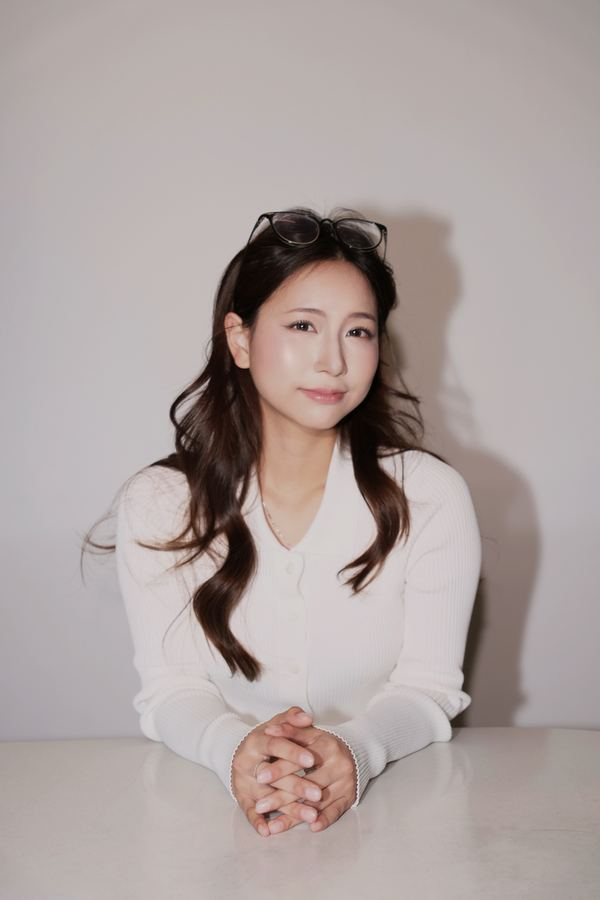
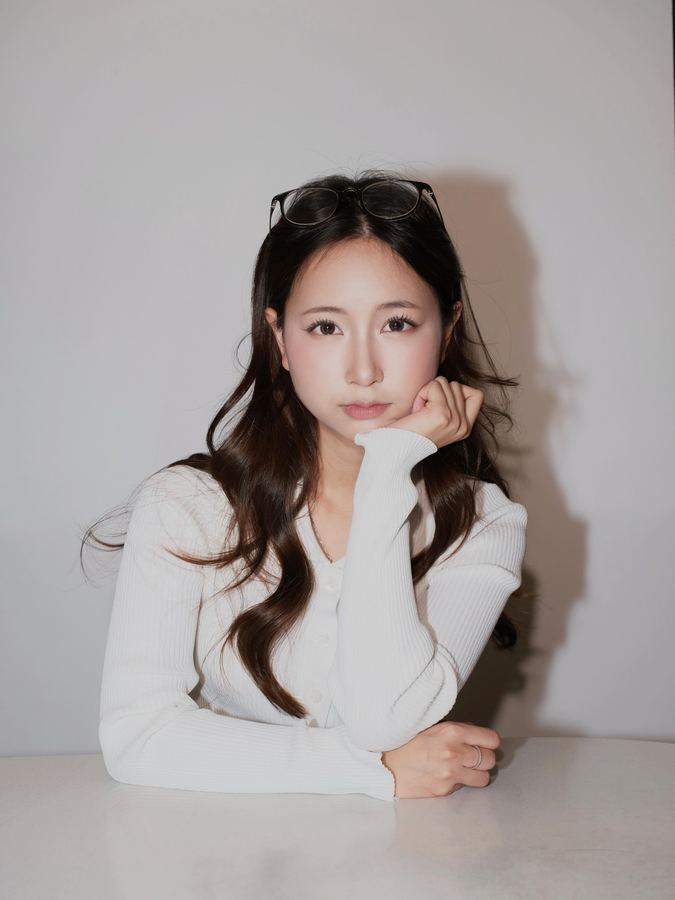
Merge Waterfront into Harbourside with the full photo, restore harbour photos, rename Car park to After dark, add four studio photos
Claude-Session: https://claude.ai/code/session_0111ci7PvkXQtPonowrr2voU

diff --git a/index.html b/index.html
@@ -517,7 +517,7 @@ h2, h3 { text-wrap: balance; font-weight: 300; }
       </div>
       <div class="section-head">
         <h2 class="section-title" id="work-title">Work</h2>
-        <p class="section-sub">Eight shoots, 33 photographs</p>
+        <p class="section-sub">Seven shoots, 40 photographs</p>
       </div>
       <ul class="index">
         <li>
@@ -547,7 +547,7 @@ h2, h3 { text-wrap: balance; font-weight: 300; }
         <li>
           <a class="idx" href="#carpark" style="--d:180ms">
             <img class="idx-thumb" src="images/carpark-1-s.jpg" width="1500" height="2000" alt="" loading="lazy" decoding="async">
-            <span class="idx-title">Car park</span>
+            <span class="idx-title">After dark</span>
             <span class="idx-where">Sydney</span>
             <span class="idx-count">4 photos</span>
           </a>
@@ -555,21 +555,13 @@ h2, h3 { text-wrap: balance; font-weight: 300; }
         <li>
           <a class="idx" href="#harbour" style="--d:240ms">
             <img class="idx-thumb" src="images/harbour-1-s.jpg" width="1500" height="2000" alt="" loading="lazy" decoding="async">
-            <span class="idx-title">White by the harbour</span>
+            <span class="idx-title">Harbourside</span>
             <span class="idx-where">Sydney Harbour</span>
-            <span class="idx-count">4 photos</span>
+            <span class="idx-count">11 photos</span>
           </a>
         </li>
         <li>
-          <a class="idx" href="#waterfront" style="--d:300ms">
-            <img class="idx-thumb" src="images/waterfront-1-s.jpg" width="1500" height="2000" alt="" loading="lazy" decoding="async">
-            <span class="idx-title">Waterfront</span>
-            <span class="idx-where">Sydney</span>
-            <span class="idx-count">4 photos</span>
-          </a>
-        </li>
-        <li>
-          <a class="idx" href="#autumn" style="--d:360ms">
+          <a class="idx" href="#autumn" style="--d:300ms">
             <img class="idx-thumb" src="images/autumn-1-s.jpg" width="1440" height="862" alt="" loading="lazy" decoding="async">
             <span class="idx-title">Autumn afternoon</span>
             <span class="idx-where">Sydney</span>
@@ -577,11 +569,11 @@ h2, h3 { text-wrap: balance; font-weight: 300; }
           </a>
         </li>
         <li>
-          <a class="idx" href="#studio" style="--d:420ms">
-            <img class="idx-thumb" src="images/studio-1-s.jpg" width="1333" height="2000" alt="" loading="lazy" decoding="async">
+          <a class="idx" href="#studio" style="--d:360ms">
+            <img class="idx-thumb" src="images/studio-1-s.jpg" width="1500" height="2000" alt="" loading="lazy" decoding="async">
             <span class="idx-title">Studio</span>
             <span class="idx-where">Indoors</span>
-            <span class="idx-count">1 photo</span>
+            <span class="idx-count">5 photos</span>
           </a>
         </li>
       </ul>
@@ -710,32 +702,32 @@ h2, h3 { text-wrap: balance; font-weight: 300; }
       </div>
 
       <span class="anchor" id="carpark"></span>
-      <section class="panel slide" data-tone="dark" data-title="Car park" aria-labelledby="carpark-title">
+      <section class="panel slide" data-tone="dark" data-title="After dark" aria-labelledby="carpark-title">
         <div class="wrap chapter">
           <div class="chapter-head">
-            <h3 class="chapter-title" id="carpark-title">Car park</h3>
+            <h3 class="chapter-title" id="carpark-title">After dark</h3>
             <p class="chapter-where">Sydney</p>
-            <p class="chapter-note">One shopping trolley, one level of underground parking and on-camera flash.</p>
+            <p class="chapter-note">A night shoot: one shopping trolley, an underground car park and on-camera flash.</p>
             <p class="chapter-count">4 photos</p>
           </div>
           <div class="frames">
           <figure class="frame" style="--ar:0.75;--d:0ms">
-            <button type="button" class="frame-btn" data-full="images/carpark-1-l.jpg" aria-label="View larger: Car park, photo 1 of 4">
+            <button type="button" class="frame-btn" data-full="images/carpark-1-l.jpg" aria-label="View larger: After dark, photo 1 of 4">
               <img src="images/carpark-1-s.jpg" srcset="images/carpark-1-s.jpg 900w, images/carpark-1-l.jpg 2000w" sizes="(min-width: 900px) 34vw, 60vw" width="1500" height="2000" alt="Woman in glasses sitting in a shopping trolley in an underground car park, lit by flash" loading="lazy" decoding="async">
             </button>
           </figure>
           <figure class="frame" style="--ar:0.75;--d:80ms">
-            <button type="button" class="frame-btn" data-full="images/carpark-2-l.jpg" aria-label="View larger: Car park, photo 2 of 4">
+            <button type="button" class="frame-btn" data-full="images/carpark-2-l.jpg" aria-label="View larger: After dark, photo 2 of 4">
               <img src="images/carpark-2-s.jpg" srcset="images/carpark-2-s.jpg 900w, images/carpark-2-l.jpg 2000w" sizes="(min-width: 900px) 34vw, 60vw" width="1500" height="2000" alt="Close portrait in the trolley, chin resting on her hand, car park lights behind" loading="lazy" decoding="async">
             </button>
           </figure>
           <figure class="frame" style="--ar:1.5004;--d:160ms">
-            <button type="button" class="frame-btn" data-full="images/carpark-3-l.jpg" aria-label="View larger: Car park, photo 3 of 4">
+            <button type="button" class="frame-btn" data-full="images/carpark-3-l.jpg" aria-label="View larger: After dark, photo 3 of 4">
               <img src="images/carpark-3-s.jpg" srcset="images/carpark-3-s.jpg 900w, images/carpark-3-l.jpg 2000w" sizes="(min-width: 900px) 34vw, 60vw" width="2000" height="1333" alt="Woman in the trolley beside a painted orange arrow on the car park floor" loading="lazy" decoding="async">
             </button>
           </figure>
           <figure class="frame" style="--ar:1.5004;--d:240ms">
-            <button type="button" class="frame-btn" data-full="images/carpark-4-l.jpg" aria-label="View larger: Car park, photo 4 of 4">
+            <button type="button" class="frame-btn" data-full="images/carpark-4-l.jpg" aria-label="View larger: After dark, photo 4 of 4">
               <img src="images/carpark-4-s.jpg" srcset="images/carpark-4-s.jpg 900w, images/carpark-4-l.jpg 2000w" sizes="(min-width: 900px) 34vw, 60vw" width="2000" height="1333" alt="Low angle with a sneaker in the foreground, the woman laughing in the trolley" loading="lazy" decoding="async">
             </button>
           </figure>
@@ -744,67 +736,68 @@ h2, h3 { text-wrap: balance; font-weight: 300; }
       </section>
 
       <span class="anchor" id="harbour"></span>
-      <section class="panel slide" data-tone="light" data-title="White by the harbour" aria-labelledby="harbour-title">
+      <section class="panel slide" data-tone="light" data-title="Harbourside" aria-labelledby="harbour-title">
         <div class="wrap chapter">
           <div class="chapter-head">
-            <h3 class="chapter-title" id="harbour-title">White by the harbour</h3>
+            <h3 class="chapter-title" id="harbour-title">Harbourside</h3>
             <p class="chapter-where">Sydney Harbour</p>
-            <p class="chapter-note">White clothes, white flowers and late sun along the harbour foreshore.</p>
-            <p class="chapter-count">4 photos</p>
+            <p class="chapter-note">Two shoots along the harbour foreshore: white flowers at golden hour, and bright midday sun on the sandstone.</p>
+            <p class="chapter-count">11 photos</p>
           </div>
           <div class="frames">
           <figure class="frame" style="--ar:0.75;--d:0ms">
-            <button type="button" class="frame-btn" data-full="images/harbour-1-l.jpg" aria-label="View larger: White by the harbour, photo 1 of 4">
+            <button type="button" class="frame-btn" data-full="images/harbour-1-l.jpg" aria-label="View larger: Harbourside, photo 1 of 11">
               <img src="images/harbour-1-s.jpg" srcset="images/harbour-1-s.jpg 900w, images/harbour-1-l.jpg 2000w" sizes="(min-width: 900px) 34vw, 60vw" width="1500" height="2000" alt="Woman holding white flowers by the harbour, the Opera House and Harbour Bridge behind" loading="lazy" decoding="async">
             </button>
           </figure>
-          <figure class="frame" style="--ar:0.75;--d:80ms">
-            <button type="button" class="frame-btn" data-full="images/harbour-2-l.jpg" aria-label="View larger: White by the harbour, photo 2 of 4">
-              <img src="images/harbour-2-s.jpg" srcset="images/harbour-2-s.jpg 900w, images/harbour-2-l.jpg 2000w" sizes="(min-width: 900px) 34vw, 60vw" width="1500" height="2000" alt="Woman on a park bench with a small camera and white flowers" loading="lazy" decoding="async">
+          <figure class="frame" style="--ar:1.5004;--d:80ms">
+            <button type="button" class="frame-btn" data-full="images/harbour-2-l.jpg" aria-label="View larger: Harbourside, photo 2 of 11">
+              <img src="images/harbour-2-s.jpg" srcset="images/harbour-2-s.jpg 900w, images/harbour-2-l.jpg 2000w" sizes="(min-width: 900px) 34vw, 60vw" width="2000" height="1333" alt="Woman in cream looking back over her shoulder, a sailboat moored on the harbour behind" loading="lazy" decoding="async">
             </button>
           </figure>
           <figure class="frame" style="--ar:0.75;--d:160ms">
-            <button type="button" class="frame-btn" data-full="images/harbour-3-l.jpg" aria-label="View larger: White by the harbour, photo 3 of 4">
-              <img src="images/harbour-3-s.jpg" srcset="images/harbour-3-s.jpg 900w, images/harbour-3-l.jpg 2000w" sizes="(min-width: 900px) 34vw, 60vw" width="1500" height="2000" alt="Woman in a white dress taking a selfie on the grass under a pine" loading="lazy" decoding="async">
+            <button type="button" class="frame-btn" data-full="images/harbour-3-l.jpg" aria-label="View larger: Harbourside, photo 3 of 11">
+              <img src="images/harbour-3-s.jpg" srcset="images/harbour-3-s.jpg 900w, images/harbour-3-l.jpg 2000w" sizes="(min-width: 900px) 34vw, 60vw" width="1500" height="2000" alt="Woman on a park bench with a small camera and white flowers" loading="lazy" decoding="async">
             </button>
           </figure>
-          <figure class="frame" style="--ar:0.75;--d:240ms">
-            <button type="button" class="frame-btn" data-full="images/harbour-4-l.jpg" aria-label="View larger: White by the harbour, photo 4 of 4">
-              <img src="images/harbour-4-s.jpg" srcset="images/harbour-4-s.jpg 900w, images/harbour-4-l.jpg 2000w" sizes="(min-width: 900px) 34vw, 60vw" width="1500" height="2000" alt="Woman in pale blue beside a vine-covered stone pillar" loading="lazy" decoding="async">
+          <figure class="frame" style="--ar:1.5004;--d:240ms">
+            <button type="button" class="frame-btn" data-full="images/harbour-4-l.jpg" aria-label="View larger: Harbourside, photo 4 of 11">
+              <img src="images/harbour-4-s.jpg" srcset="images/harbour-4-s.jpg 900w, images/harbour-4-l.jpg 2000w" sizes="(min-width: 900px) 34vw, 60vw" width="2000" height="1333" alt="Woman holding white flowers on a sunlit lawn among tall trees" loading="lazy" decoding="async">
             </button>
           </figure>
-          </div>
-        </div>
-      </section>
-
-      <span class="anchor" id="waterfront"></span>
-      <section class="panel slide" data-tone="light" data-title="Waterfront" aria-labelledby="waterfront-title">
-        <div class="wrap chapter">
-          <div class="chapter-head">
-            <h3 class="chapter-title" id="waterfront-title">Waterfront</h3>
-            <p class="chapter-where">Sydney</p>
-            <p class="chapter-note">Bright sun, sandstone blocks and the water behind.</p>
-            <p class="chapter-count">4 photos</p>
-          </div>
-          <div class="frames">
           <figure class="frame" style="--ar:0.75;--d:0ms">
-            <button type="button" class="frame-btn" data-full="images/waterfront-1-l.jpg" aria-label="View larger: Waterfront, photo 1 of 4">
-              <img src="images/waterfront-1-s.jpg" srcset="images/waterfront-1-s.jpg 900w, images/waterfront-1-l.jpg 2000w" sizes="(min-width: 900px) 34vw, 60vw" width="1500" height="2000" alt="Woman in a black top sitting on harbour rocks, holding a small green camera" loading="lazy" decoding="async">
+            <button type="button" class="frame-btn" data-full="images/harbour-5-l.jpg" aria-label="View larger: Harbourside, photo 5 of 11">
+              <img src="images/harbour-5-s.jpg" srcset="images/harbour-5-s.jpg 900w, images/harbour-5-l.jpg 2000w" sizes="(min-width: 900px) 34vw, 60vw" width="1500" height="2000" alt="Woman in a white dress taking a selfie on the grass under a pine" loading="lazy" decoding="async">
             </button>
           </figure>
-          <figure class="frame" style="--ar:0.75;--d:80ms">
-            <button type="button" class="frame-btn" data-full="images/waterfront-2-l.jpg" aria-label="View larger: Waterfront, photo 2 of 4">
-              <img src="images/waterfront-2-s.jpg" srcset="images/waterfront-2-s.jpg 900w, images/waterfront-2-l.jpg 2000w" sizes="(min-width: 900px) 34vw, 60vw" width="1500" height="2000" alt="Two frames by the water: standing on sandstone blocks with apartment towers across the bay, and holding a small green camera up beside her face" loading="lazy" decoding="async">
+          <figure class="frame" style="--ar:1.5004;--d:80ms">
+            <button type="button" class="frame-btn" data-full="images/harbour-6-l.jpg" aria-label="View larger: Harbourside, photo 6 of 11">
+              <img src="images/harbour-6-s.jpg" srcset="images/harbour-6-s.jpg 900w, images/harbour-6-l.jpg 2000w" sizes="(min-width: 900px) 34vw, 60vw" width="2000" height="1333" alt="Sun low over the harbour, the Opera House and Harbour Bridge in the distance" loading="lazy" decoding="async">
             </button>
           </figure>
           <figure class="frame" style="--ar:0.75;--d:160ms">
-            <button type="button" class="frame-btn" data-full="images/waterfront-3-l.jpg" aria-label="View larger: Waterfront, photo 3 of 4">
-              <img src="images/waterfront-3-s.jpg" srcset="images/waterfront-3-s.jpg 900w, images/waterfront-3-l.jpg 2000w" sizes="(min-width: 900px) 34vw, 60vw" width="1500" height="2000" alt="Woman at the edge of the frame, arm raised behind her head, the harbour behind" loading="lazy" decoding="async">
+            <button type="button" class="frame-btn" data-full="images/harbour-7-l.jpg" aria-label="View larger: Harbourside, photo 7 of 11">
+              <img src="images/harbour-7-s.jpg" srcset="images/harbour-7-s.jpg 900w, images/harbour-7-l.jpg 2000w" sizes="(min-width: 900px) 34vw, 60vw" width="1500" height="2000" alt="Woman in pale blue beside a vine-covered stone pillar" loading="lazy" decoding="async">
             </button>
           </figure>
-          <figure class="frame" style="--ar:0.75;--d:240ms">
-            <button type="button" class="frame-btn" data-full="images/waterfront-4-l.jpg" aria-label="View larger: Waterfront, photo 4 of 4">
-              <img src="images/waterfront-4-s.jpg" srcset="images/waterfront-4-s.jpg 900w, images/waterfront-4-l.jpg 2000w" sizes="(min-width: 900px) 34vw, 60vw" width="1500" height="2000" alt="Woman sitting on a sandstone ledge, the harbour and a bridge behind" loading="lazy" decoding="async">
+          <figure class="frame" style="--ar:1.5004;--d:240ms">
+            <button type="button" class="frame-btn" data-full="images/harbour-8-l.jpg" aria-label="View larger: Harbourside, photo 8 of 11">
+              <img src="images/harbour-8-s.jpg" srcset="images/harbour-8-s.jpg 900w, images/harbour-8-l.jpg 2000w" sizes="(min-width: 900px) 34vw, 60vw" width="2000" height="1333" alt="Woman in white sitting on the lawn holding a small camera, long shadows across the grass" loading="lazy" decoding="async">
+            </button>
+          </figure>
+          <figure class="frame" style="--ar:0.75;--d:0ms">
+            <button type="button" class="frame-btn" data-full="images/harbour-9-l.jpg" aria-label="View larger: Harbourside, photo 9 of 11">
+              <img src="images/harbour-9-s.jpg" srcset="images/harbour-9-s.jpg 900w, images/harbour-9-l.jpg 2000w" sizes="(min-width: 900px) 34vw, 60vw" width="1500" height="2000" alt="Woman in a black top sitting on harbour rocks, holding a small green camera" loading="lazy" decoding="async">
+            </button>
+          </figure>
+          <figure class="frame" style="--ar:0.75;--d:80ms">
+            <button type="button" class="frame-btn" data-full="images/harbour-10-l.jpg" aria-label="View larger: Harbourside, photo 10 of 11">
+              <img src="images/harbour-10-s.jpg" srcset="images/harbour-10-s.jpg 900w, images/harbour-10-l.jpg 2000w" sizes="(min-width: 900px) 34vw, 60vw" width="1500" height="2000" alt="Two frames by the water: standing on sandstone blocks with apartment towers across the bay, and holding a small green camera up beside her face" loading="lazy" decoding="async">
+            </button>
+          </figure>
+          <figure class="frame" style="--ar:0.75;--d:160ms">
+            <button type="button" class="frame-btn" data-full="images/harbour-11-l.jpg" aria-label="View larger: Harbourside, photo 11 of 11">
+              <img src="images/harbour-11-s.jpg" srcset="images/harbour-11-s.jpg 900w, images/harbour-11-l.jpg 2000w" sizes="(min-width: 900px) 34vw, 60vw" width="1500" height="2000" alt="Woman in a black top sitting on a sandstone ledge by the water, one hand in her hair, the harbour and city behind" loading="lazy" decoding="async">
             </button>
           </figure>
           </div>
@@ -861,13 +854,33 @@ h2, h3 { text-wrap: balance; font-weight: 300; }
           <div class="chapter-head">
             <h3 class="chapter-title" id="studio-title">Studio</h3>
             <p class="chapter-where">Indoors</p>
-            <p class="chapter-note">A plain white set and soft light.</p>
-            <p class="chapter-count">1 photo</p>
+            <p class="chapter-note">White backdrops and soft light, plus a bedroom set finished as framed prints.</p>
+            <p class="chapter-count">5 photos</p>
           </div>
-          <div class="frames frames--single">
-          <figure class="frame" style="--ar:0.6665;--d:0ms">
-            <button type="button" class="frame-btn" data-full="images/studio-1-l.jpg" aria-label="View larger: Studio, photo 1 of 1">
-              <img src="images/studio-1-s.jpg" srcset="images/studio-1-s.jpg 900w, images/studio-1-l.jpg 2000w" sizes="(min-width: 900px) 34vw, 60vw" width="1333" height="2000" alt="Studio portrait of a woman in a white blouse, hands folded on a white table" loading="lazy" decoding="async">
+          <div class="frames">
+          <figure class="frame" style="--ar:0.75;--d:0ms">
+            <button type="button" class="frame-btn" data-full="images/studio-1-l.jpg" aria-label="View larger: Studio, photo 1 of 5">
+              <img src="images/studio-1-s.jpg" srcset="images/studio-1-s.jpg 900w, images/studio-1-l.jpg 2000w" sizes="(min-width: 900px) 34vw, 60vw" width="1500" height="2000" alt="Woman in a white ribbed cardigan with glasses pushed up on her head, chin resting on her hand at a white table" loading="lazy" decoding="async">
+            </button>
+          </figure>
+          <figure class="frame" style="--ar:0.6665;--d:80ms">
+            <button type="button" class="frame-btn" data-full="images/studio-2-l.jpg" aria-label="View larger: Studio, photo 2 of 5">
+              <img src="images/studio-2-s.jpg" srcset="images/studio-2-s.jpg 900w, images/studio-2-l.jpg 2000w" sizes="(min-width: 900px) 34vw, 60vw" width="1333" height="2000" alt="Studio portrait of a woman in a white top, glasses on her head, hands folded on a white table" loading="lazy" decoding="async">
+            </button>
+          </figure>
+          <figure class="frame" style="--ar:0.75;--d:160ms">
+            <button type="button" class="frame-btn" data-full="images/studio-3-l.jpg" aria-label="View larger: Studio, photo 3 of 5">
+              <img src="images/studio-3-s.jpg" srcset="images/studio-3-s.jpg 900w, images/studio-3-l.jpg 2000w" sizes="(min-width: 900px) 34vw, 60vw" width="1500" height="2000" alt="Woman in a white ribbed cardigan sitting at a white table, hands clasped" loading="lazy" decoding="async">
+            </button>
+          </figure>
+          <figure class="frame" style="--ar:0.7995;--d:240ms">
+            <button type="button" class="frame-btn" data-full="images/studio-4-l.jpg" aria-label="View larger: Studio, photo 4 of 5">
+              <img src="images/studio-4-s.jpg" srcset="images/studio-4-s.jpg 900w, images/studio-4-l.jpg 2000w" sizes="(min-width: 900px) 34vw, 60vw" width="1599" height="2000" alt="A print of a woman lying on white bedding, framed over a soft-focus bedroom with a plush bunny" loading="lazy" decoding="async">
+            </button>
+          </figure>
+          <figure class="frame" style="--ar:0.7995;--d:0ms">
+            <button type="button" class="frame-btn" data-full="images/studio-5-l.jpg" aria-label="View larger: Studio, photo 5 of 5">
+              <img src="images/studio-5-s.jpg" srcset="images/studio-5-s.jpg 900w, images/studio-5-l.jpg 2000w" sizes="(min-width: 900px) 34vw, 60vw" width="1599" height="2000" alt="Two prints of a woman in bed with a strawberry cake and a plush cake toy, framed over a soft-focus bedroom" loading="lazy" decoding="async">
             </button>
           </figure>
           </div>
